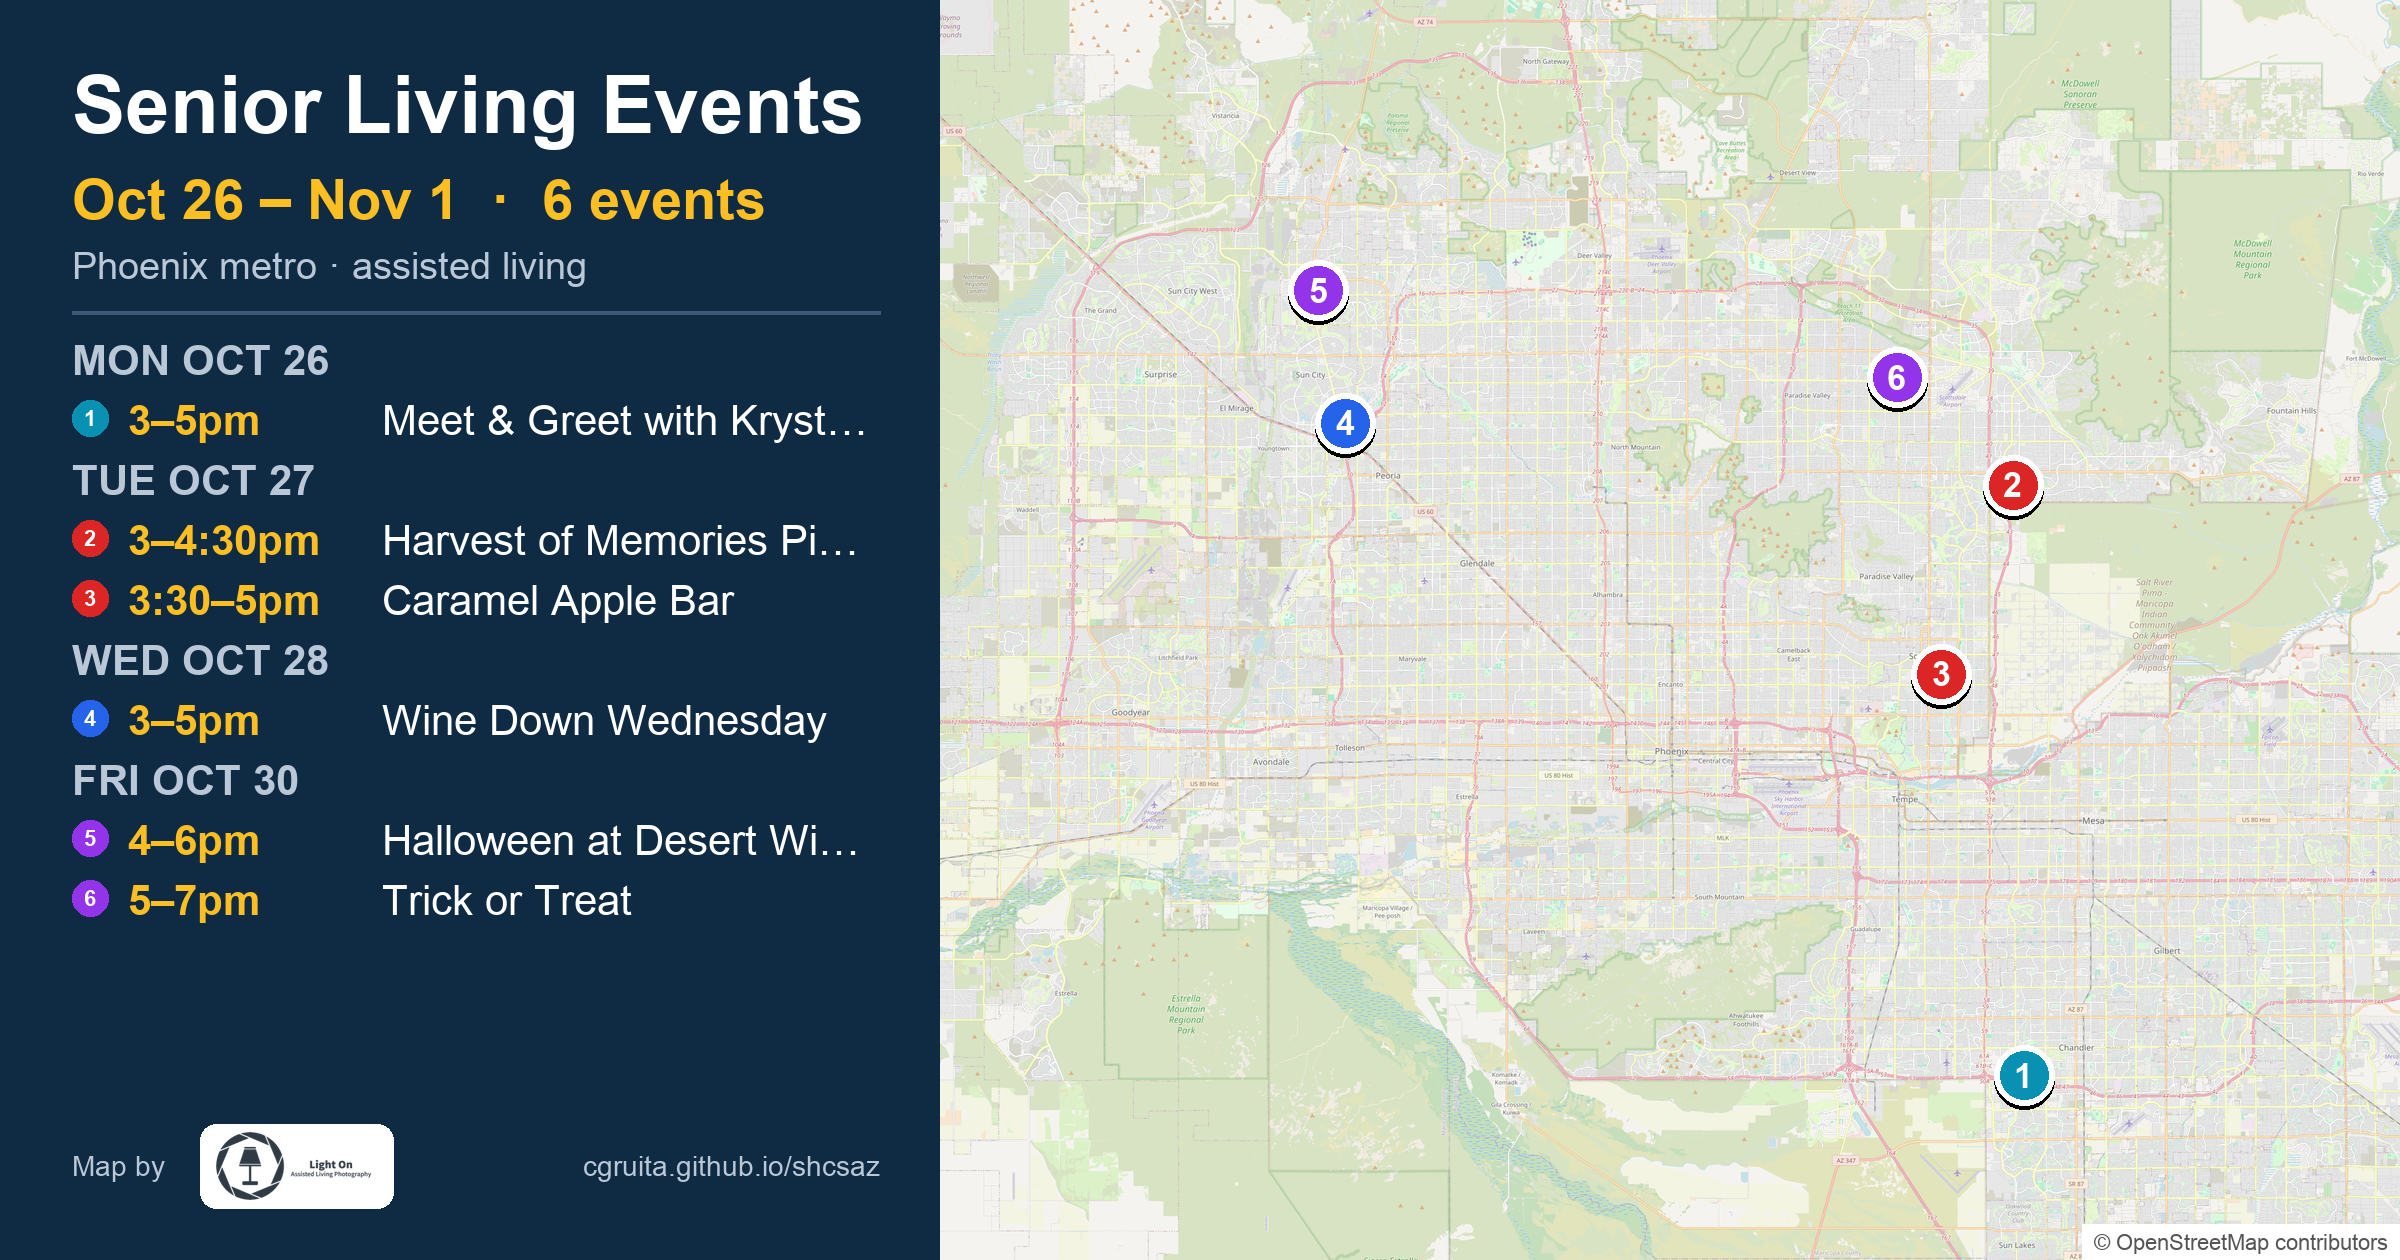
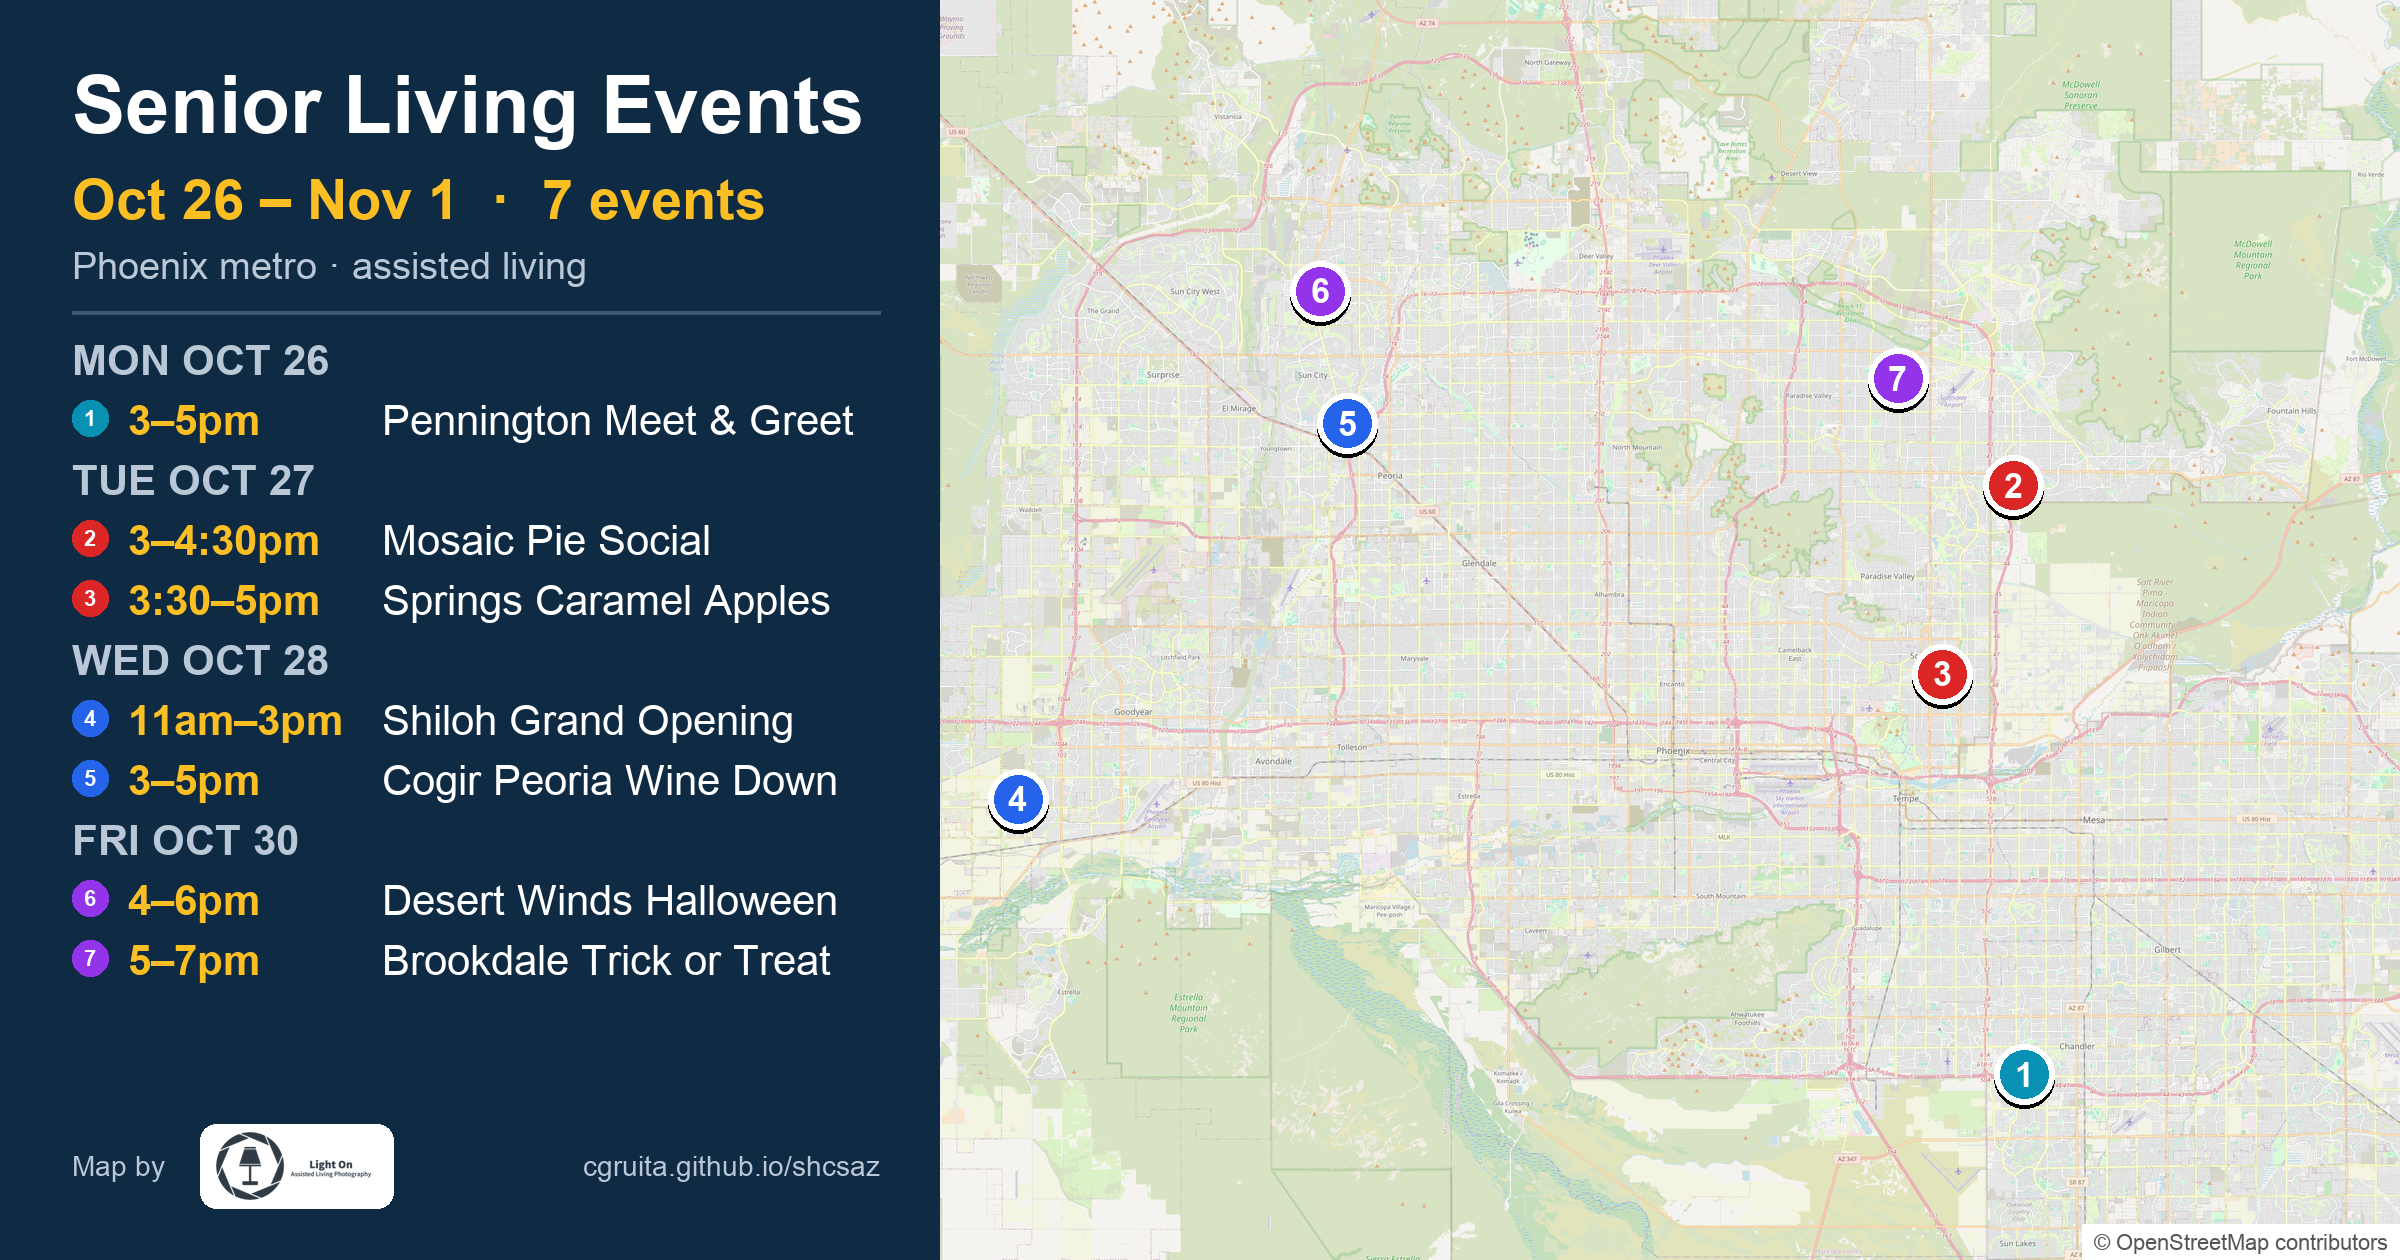
Week of Oct 26, 2026-10-26-2

diff --git a/index.html b/index.html
@@ -4,23 +4,23 @@
   <meta charset="UTF-8" />
   <title>Phoenix Metro Weekly Assisted Living Events</title>
   <!-- og:start (generated by scripts/build_preview.py) -->
-  <meta name="description" content="Oct 26 – Nov 1 · 6 assisted living events across the Valley" />
+  <meta name="description" content="Oct 26 – Nov 1 · 7 assisted living events across the Valley" />
   <meta property="og:type" content="website" />
   <meta property="og:title" content="Senior Living Events · Oct 26 – Nov 1" />
-  <meta property="og:description" content="Oct 26 – Nov 1 · 6 assisted living events across the Valley" />
+  <meta property="og:description" content="Oct 26 – Nov 1 · 7 assisted living events across the Valley" />
   <meta property="og:url" content="https://cgruita.github.io/shcsaz/" />
-  <meta property="og:image" content="https://cgruita.github.io/shcsaz/images/preview.png?v=2026-10-26-1" />
+  <meta property="og:image" content="https://cgruita.github.io/shcsaz/images/preview.png?v=2026-10-26-2" />
   <meta property="og:image:width" content="1200" />
   <meta property="og:image:height" content="630" />
   <meta name="twitter:card" content="summary_large_image" />
   <meta name="twitter:title" content="Senior Living Events · Oct 26 – Nov 1" />
-  <meta name="twitter:description" content="Oct 26 – Nov 1 · 6 assisted living events across the Valley" />
-  <meta name="twitter:image" content="https://cgruita.github.io/shcsaz/images/preview.png?v=2026-10-26-1" />
+  <meta name="twitter:description" content="Oct 26 – Nov 1 · 7 assisted living events across the Valley" />
+  <meta name="twitter:image" content="https://cgruita.github.io/shcsaz/images/preview.png?v=2026-10-26-2" />
   <!-- og:end -->
   <meta name="viewport" content="width=device-width, initial-scale=1" />
   <link href="https://api.mapbox.com/mapbox-gl-js/v3.6.0/mapbox-gl.css" rel="stylesheet" />
   <link href="vendor/leaflet/leaflet.css" rel="stylesheet" />
-  <link href="css/styles.css?v=2026-10-26-1" rel="stylesheet" />
+  <link href="css/styles.css?v=2026-10-26-2" rel="stylesheet" />
 </head>
 <body>
   <header>
@@ -89,7 +89,7 @@
     })();
   </script>
   <script src="https://api.mapbox.com/mapbox-gl-js/v3.6.0/mapbox-gl.js"></script>
-  <script src="js/config.js?v=2026-10-26-1"></script>
-  <script src="js/map.js?v=2026-10-26-1"></script>
+  <script src="js/config.js?v=2026-10-26-2"></script>
+  <script src="js/map.js?v=2026-10-26-2"></script>
 </body>
 </html>

diff --git a/js/config.js b/js/config.js
@@ -1,2 +1,2 @@
 const MAPBOX_TOKEN = "pk.eyJ1IjoiY2dydWl0YSIsImEiOiJjbXRhanNoYzkwMGRrMndvYnQ5OWFvcHZoIn0.IXzPp--fY9nrZjRw5MfD2A";
-const MAP_VERSION = "2026-10-26-1";
+const MAP_VERSION = "2026-10-26-2";
